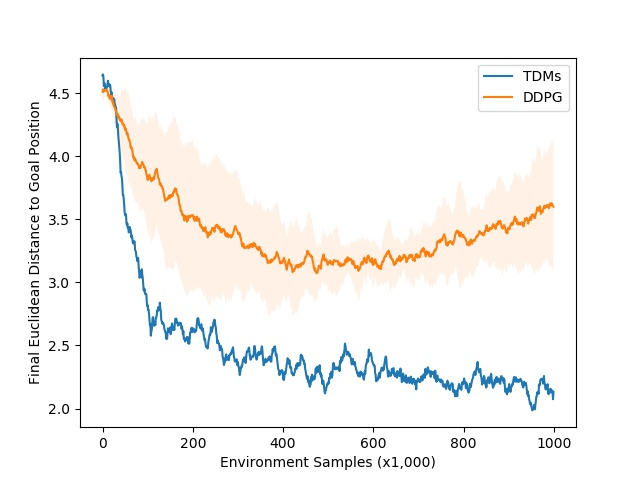
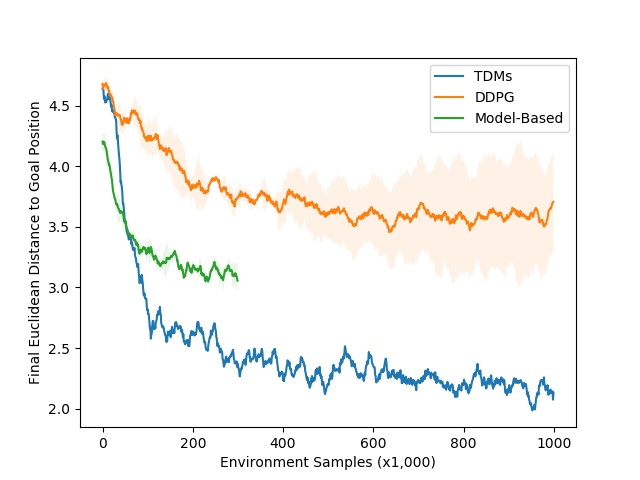
launch final ant-max-distance-6 experiments

diff --git a/experiments/state_distance/baselines/her_v2.py b/experiments/state_distance/baselines/her_v2.py
@@ -100,14 +100,14 @@ if __name__ == "__main__":
     mode = "local"
     exp_prefix = "dev-her"
 
-    n_seeds = 1
+    n_seeds = 3
     mode = "ec2"
-    exp_prefix = "ant-pos-and-vel-her-and-sparse-ddpg"
+    exp_prefix = "final-ant-max-distance-6"
 
     num_epochs = 1000
     num_steps_per_epoch = 1000
     num_steps_per_eval = 1000
-    max_path_length = 100
+    max_path_length = 50
 
     # noinspection PyTypeChecker
     variant = dict(
@@ -118,7 +118,7 @@ if __name__ == "__main__":
                 num_steps_per_eval=num_steps_per_eval,
                 max_path_length=max_path_length,
                 num_updates_per_env_step=25,
-                batch_size=256,
+                batch_size=128,
                 discount=1,
             ),
             tdm_kwargs=dict(
@@ -167,20 +167,23 @@ if __name__ == "__main__":
         'env_class': [
             # GoalXVelHalfCheetah,
             # GoalXPosHalfCheetah,
-            # GoalXYPosAnt,
+            GoalXYPosAnt,
             # GoalXYGymPusherEnv,
             # CylinderXYPusher2DEnv,
             # Reacher7DofXyzGoalState,
             # MultitaskPusher3DEnv,
             # Walker2DTargetXPos,
-            GoalXYPosAndVelAnt,
+            # GoalXYPosAndVelAnt,
         ],
-        'env_kwargs.speed_weight': [
-            None,
-        ],
-        'env_kwargs.goal_dim_weights': [
-            (0.01, 0.01, 0.99, 0.99),
-            (0.1, 0.1, 0.9, 0.9),
+        # 'env_kwargs.speed_weight': [
+        #     None,
+        # ],
+        # 'env_kwargs.goal_dim_weights': [
+        #     (0.01, 0.01, 0.99, 0.99),
+        #     (0.1, 0.1, 0.9, 0.9),
+        # ],
+        'env_kwargs.max_distance': [
+            6,
         ],
         'qf_criterion_class': [
             nn.MSELoss,
@@ -195,7 +198,7 @@ if __name__ == "__main__":
             0.01, 1, 100, 10000
         ],
         'ddpg_tdm_kwargs.base_kwargs.num_updates_per_env_step': [
-            1,
+            1, 5, 10,
         ],
         'ddpg_tdm_kwargs.base_kwargs.discount': [
             0.98,
@@ -204,15 +207,13 @@ if __name__ == "__main__":
             0.05,
         ],
         'ddpg_tdm_kwargs.ddpg_kwargs.policy_pre_activation_weight': [
-            0.,
             0.01,
-            1,
         ],
         'ddpg_tdm_kwargs.ddpg_kwargs.eval_with_target_policy': [
             True,
         ],
         'ddpg_tdm_kwargs.tdm_kwargs.num_paths_for_normalization': [
-            20, 0
+            0
         ],
         'norm_order': [1],
         'relabel': [

diff --git a/experiments/state_distance/tdm/ddpg_tdm_launch.py b/experiments/state_distance/tdm/ddpg_tdm_launch.py
@@ -106,14 +106,14 @@ if __name__ == "__main__":
     mode = "local"
     exp_prefix = "dev-ddpg-tdm-launch-2"
 
-    n_seeds = 1
+    n_seeds = 3
     mode = "ec2"
-    exp_prefix = "ddpg-tdm-cheetah-nupo-sweep"
+    exp_prefix = "final-ant-max-distance-6"
 
-    num_epochs = 250
+    num_epochs = 1000
     num_steps_per_epoch = 1000
     num_steps_per_eval = 1000
-    max_path_length = 100
+    max_path_length = 50
 
     # noinspection PyTypeChecker
     variant = dict(
@@ -169,8 +169,8 @@ if __name__ == "__main__":
     search_space = {
         'env_class': [
             # GoalXVelHalfCheetah,
-            GoalXPosHalfCheetah,
-            # GoalXYPosAnt,
+            # GoalXPosHalfCheetah,
+            GoalXYPosAnt,
             # Reacher7DofXyzPosAndVelGoalState,
             # GoalXYPosAndVelAnt,
             # MultitaskPusher3DEnv,
@@ -180,7 +180,7 @@ if __name__ == "__main__":
             # GoalXYGymPusherEnv,
         ],
         'env_kwargs.max_distance': [
-            30,
+            6,
         ],
         # 'env_kwargs.min_distance': [
         #     3,
@@ -199,7 +199,7 @@ if __name__ == "__main__":
             'environment',
         ],
         'ddpg_tdm_kwargs.tdm_kwargs.num_paths_for_normalization': [
-            20, 0
+            0
         ],
         'es_kwargs': [
             dict(theta=0.1, max_sigma=0.1, min_sigma=0.1),
@@ -214,7 +214,7 @@ if __name__ == "__main__":
             True,
         ],
         'relabel': [
-            True, False
+            True,
         ],
         'her_replay_buffer_kwargs.resampling_strategy': [
             # 'truncated_geometric',
@@ -245,7 +245,7 @@ if __name__ == "__main__":
             # 'none',
         ],
         'ddpg_tdm_kwargs.tdm_kwargs.terminate_when_goal_reached': [
-            True, False
+            False
         ],
         'ddpg_tdm_kwargs.tdm_kwargs.normalize_distance': [
             False
@@ -262,10 +262,10 @@ if __name__ == "__main__":
         #     (0.5, 0.5, 0.5, 0.5),
         # ],
         'ddpg_tdm_kwargs.base_kwargs.reward_scale': [
-            0.01, 1, 10,
+            10, 100, 1000
         ],
         'ddpg_tdm_kwargs.base_kwargs.num_updates_per_env_step': [
-            1, 5, 10, 20, 30
+            1, 5, 10,
         ],
         'ddpg_tdm_kwargs.base_kwargs.discount': [
             1,

diff --git a/experiments/state_distance/baselines/dagger.py b/experiments/state_distance/baselines/dagger.py
@@ -86,12 +86,12 @@ if __name__ == "__main__":
 
     n_seeds = 3
     mode = "ec2"
-    exp_prefix = "mb-pusher-with-exploration"
+    exp_prefix = "final-ant-max-distance-6"
 
     num_epochs = 1000
     num_steps_per_epoch = 1000
     num_steps_per_eval = 1000
-    max_path_length = 100
+    max_path_length = 50
 
     # noinspection PyTypeChecker
     variant = dict(
@@ -121,7 +121,6 @@ if __name__ == "__main__":
         ou_kwargs=dict(
             theta=0.1,
             max_sigma=0.1,
-            min_sigma=0.1,
         ),
         env_kwargs=dict(),
         version="Model-Based-Dagger",
@@ -132,9 +131,9 @@ if __name__ == "__main__":
         'env_class': [
             # GoalXVelHalfCheetah,
             # Reacher7DofXyzGoalState,
-            # GoalXYPosAnt,
+            GoalXYPosAnt,
             # GoalXPosHalfCheetah,
-            GoalXYGymPusherEnv,
+            # GoalXYGymPusherEnv,
             # MultitaskPusher3DEnv,
             # GoalXPosHopper,
             # Reacher7DofXyzPosAndVelGoalState,
@@ -142,9 +141,9 @@ if __name__ == "__main__":
             # CylinderXYPusher2DEnv,
             # Walker2DTargetXPos,
         ],
-        # 'env_kwargs.max_distance': [
-        #     5,
-        # ],
+        'env_kwargs.max_distance': [
+            6,
+        ],
         # 'env_kwargs.min_distance': [
         #     3,
         # ],
@@ -177,10 +176,11 @@ if __name__ == "__main__":
         #     max_path_length,
         # ],
         'algo_kwargs.num_updates_per_env_step': [
-            1,
+            1, 5, 10,
         ],
         'algo_kwargs.num_paths_for_normalization': [20],
-        'mpc_controller_kwargs.mpc_horizon': [15, 30],
+        'ou_kawrgs.max_sigma': [0.1, 0],
+        'mpc_controller_kwargs.mpc_horizon': [15],
     }
     sweeper = hyp.DeterministicHyperparameterSweeper(
         search_space, default_parameters=variant,

diff --git a/experiments/state_distance/baselines/ddpg.py b/experiments/state_distance/baselines/ddpg.py
@@ -74,14 +74,14 @@ if __name__ == "__main__":
     mode = "local_docker"
     exp_prefix = "dev-state-distance-ddpg-baseline"
 
-    n_seeds = 1
+    n_seeds = 3
     mode = "ec2"
-    exp_prefix = "ddpg-ant-pos-and-vel-weight-0p99"
+    exp_prefix = "final-ant-max-distance-6"
 
-    num_epochs = 500
+    num_epochs = 1000
     num_steps_per_epoch = 1000
     num_steps_per_eval = 1000
-    max_path_length = 100
+    max_path_length = 50
 
     # noinspection PyTypeChecker
     variant = dict(
@@ -144,15 +144,15 @@ if __name__ == "__main__":
         # 'env_kwargs.max_speed': [
         #     0.05,
         # ],
-        'env_kwargs.speed_weight': [
-            0.99,
-        ],
-        'env_kwargs.done_threshold': [
-            0.005, 0.001, 0.0005
-        ],
-        # 'env_kwargs.max_distance': [
-        #     0.5, 2
+        # 'env_kwargs.speed_weight': [
+        #     0.99,
         # ],
+        # 'env_kwargs.done_threshold': [
+        #     0.005, 0.001, 0.0005
+        # ],
+        'env_kwargs.max_distance': [
+            6,
+        ],
         # 'env_kwargs.action_penalty': [
         #     1e-3, 0,
         # ],
@@ -164,16 +164,16 @@ if __name__ == "__main__":
         #     False,
         # ],
         'algo_kwargs.num_paths_for_normalization': [
-            20, 0,
+            0,
         ],
         # 'algo_kwargs.max_path_length': [
         #     max_path_length,
         # ],
         'algo_kwargs.num_updates_per_env_step': [
-            1,
+            1, 5, 10,
         ],
         'algo_kwargs.reward_scale': [
-            0.01, 1, 100, 10000
+            0.01, 1, 100,
         ],
         # 'algo_kwargs.tau': [
         #     0.01, 0.001,

diff --git a/experiments/state_distance/iclr2018/ant_distance_6_results.py b/experiments/state_distance/iclr2018/ant_distance_6_results.py
@@ -9,18 +9,22 @@ def main():
     tdm_trials = Experiment(
         "/home/vitchyr/git/railrl/data/doodads3/12-28-ant-architecture-sweep-nupo-2/",
         criteria={
-            'exp_id': '94',
+            'exp_id': '94',   # nupo 10
+            # 'exp_id': '104',   # nupo 1
         }
     ).get_trials()
-    # mb_trials = Experiment(
-    #     "",
-    #     criteria={
-    #     }
-    # ).get_trials()
+    mb_trials = Experiment(
+        "/home/vitchyr/git/railrl/data/doodads3/12-30-ant-max-distance-6-h50",
+        criteria={
+            'exp_id': '1',
+            'algorithm': 'Model-Based-Dagger',
+        }
+    ).get_trials()
     ddpg_trials = Experiment(
         "/home/vitchyr/git/railrl/data/doodads3/12-28-ddpg-ant-far-distance-nupo-sweep/",
         criteria={
-            'exp_id': '13',
+            # 'exp_id': '13',  # nupo = 5
+            'exp_id': '12',  # nupo = 1  (learns slower, but better final perf)
         }
     ).get_trials()
 
@@ -31,6 +35,7 @@ def main():
     for trials, name, key in [
         (tdm_trials, 'TDMs', base_key),
         (ddpg_trials, 'DDPG', base_key),
+        (mb_trials, 'Model-Based', base_key),
     ]:
         key = key.replace(" ", "_")
         all_values = []
